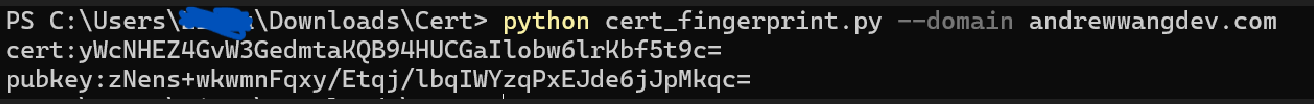
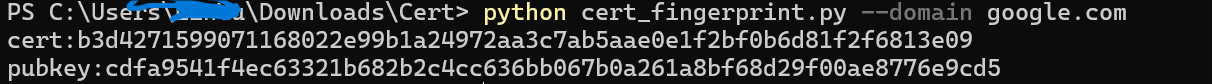
update output format of cert using hex encoding

diff --git a/cert_fingerprint.py b/cert_fingerprint.py
@@ -14,9 +14,8 @@ try:
 except Exception:
     CRYPTOGRAPHY_AVAILABLE = False
 
-def sha256_base64(der_bytes: bytes) -> str:
-    digest = hashlib.sha256(der_bytes).digest()
-    return base64.b64encode(digest).decode('ascii')
+def sha256_hex(der_bytes: bytes) -> str:
+    return hashlib.sha256(der_bytes).hexdigest()
 
 def get_cert_der_from_domain(hostname: str, port: int = 443, timeout: float = 5.0) -> bytes:
     ctx = ssl.create_default_context()
@@ -59,7 +58,7 @@ def get_pubkey_der_from_cert_der(der: bytes) -> bytes:
     return pub_der
 
 def main():
-    p = argparse.ArgumentParser(description="Compute Base64-encoded SHA-256 fingerprint of a certificate (from domain or PEM file)")
+    p = argparse.ArgumentParser(description="Compute SHA-256 hex fingerprint of a certificate (from domain or PEM file)")
     group = p.add_mutually_exclusive_group(required=True)
     group.add_argument('--domain', '-d', help='Domain or host:port (default port 443)')
     group.add_argument('--file', '-f', help='Local PEM certificate file path')
@@ -82,7 +81,7 @@ def main():
                 hostname = host
                 port = 443
             der = get_cert_der_from_domain(hostname, port, timeout=args.timeout)
-            cert_fp = sha256_base64(der)
+            cert_fp = sha256_hex(der)
             if args.output == 'cert':
                 print(cert_fp)
             elif args.output == 'both':
@@ -91,7 +90,7 @@ def main():
             if args.output in ('pubkey','both'):
                 try:
                     pub_der = get_pubkey_der_from_cert_der(der)
-                    pub_fp = sha256_base64(pub_der)
+                    pub_fp = sha256_hex(pub_der)
                     if args.output == 'pubkey':
                         print(pub_fp)
                     else:
@@ -101,7 +100,7 @@ def main():
                     sys.exit(1)
         else:
             der = get_cert_der_from_pem_file(args.file)
-            cert_fp = sha256_base64(der)
+            cert_fp = sha256_hex(der)
             if args.output == 'cert':
                 print(cert_fp)
             elif args.output == 'both':
@@ -109,7 +108,8 @@ def main():
             if args.output in ('pubkey','both'):
                 try:
                     pub_der = get_pubkey_der_from_cert_der(der)
-                    pub_fp = sha256_base64(pub_der)
+                    pub_fp = sha256_hex(pub_der)
+                    #output hex format
                     if args.output == 'pubkey':
                         print(pub_fp)
                     else:

diff --git a/README.MD b/README.MD
@@ -12,7 +12,7 @@
   <img src="https://img.shields.io/badge/security-pinning-success.svg?style=flat-square" alt="Security: Pinning">
 </p>
 
-> A robust, lightweight Python utility designed to streamline the extraction of Base64-encoded SHA-256 fingerprints for SSL/TLS Certificates and Subject Public Key Info (SPKI).
+> Automatically extracts the SHA-256 fingerprints of TLS certificates and public keys from domain names and .pem files, which can be used to fix certificates on proxy clients.
 
 ## 📖 Overview
 
